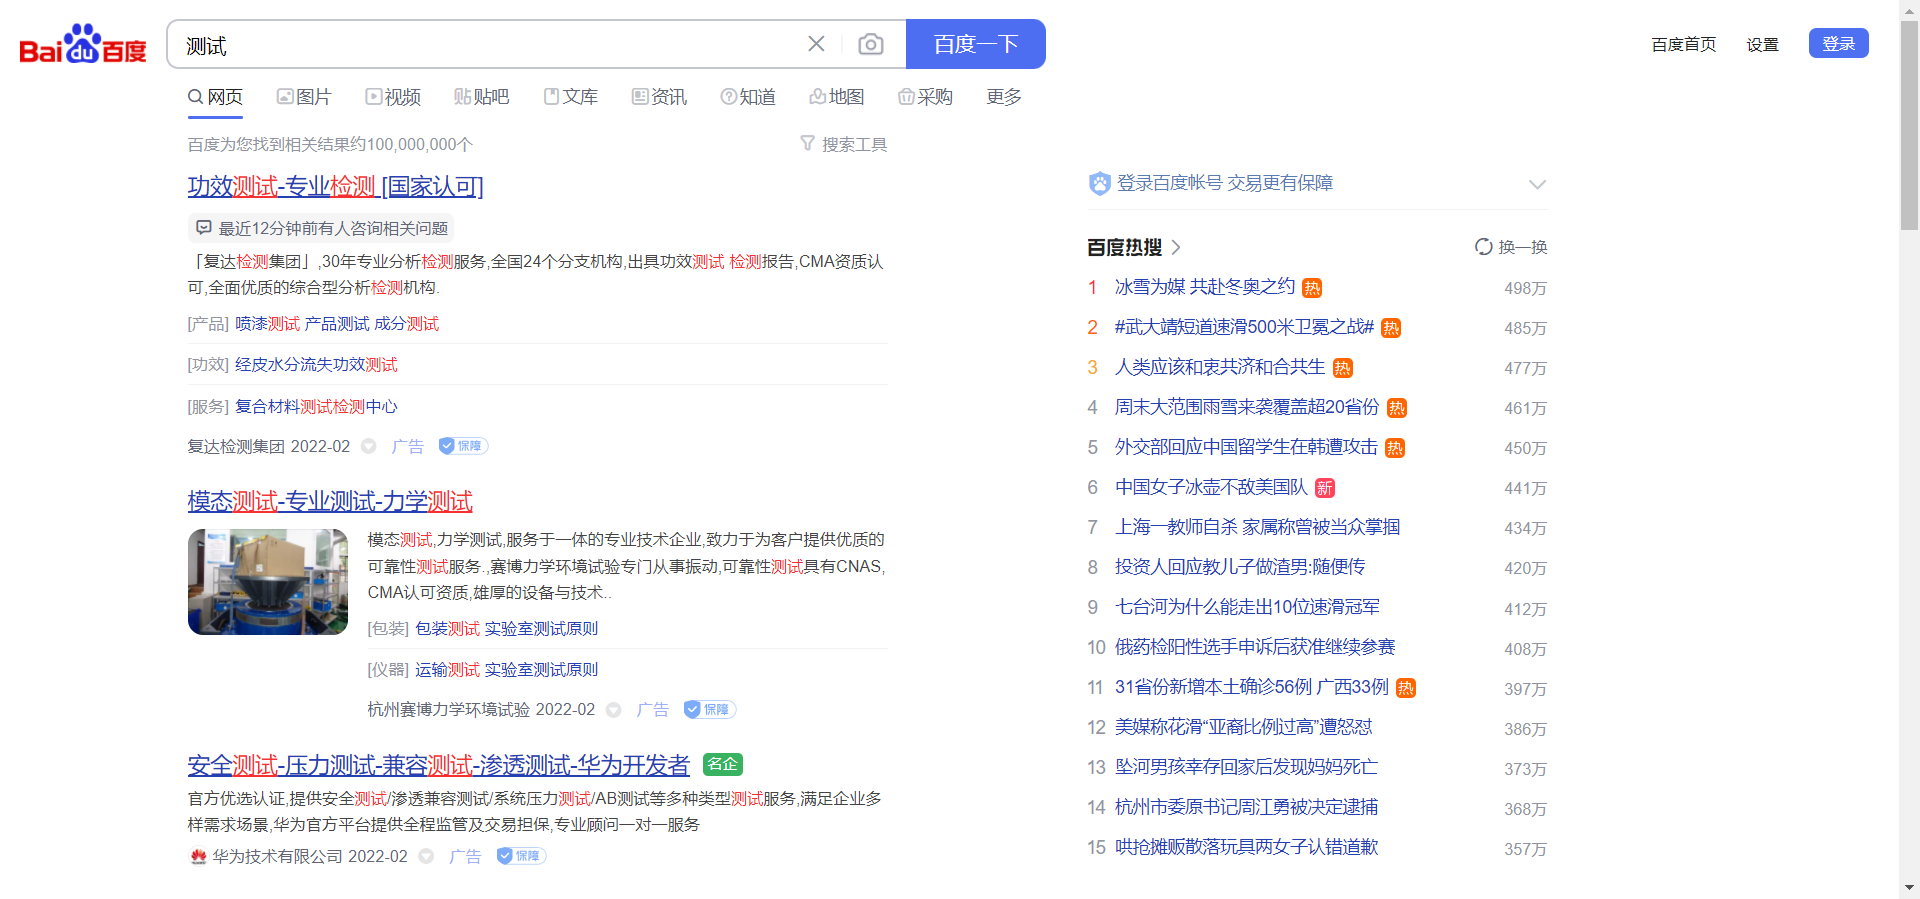
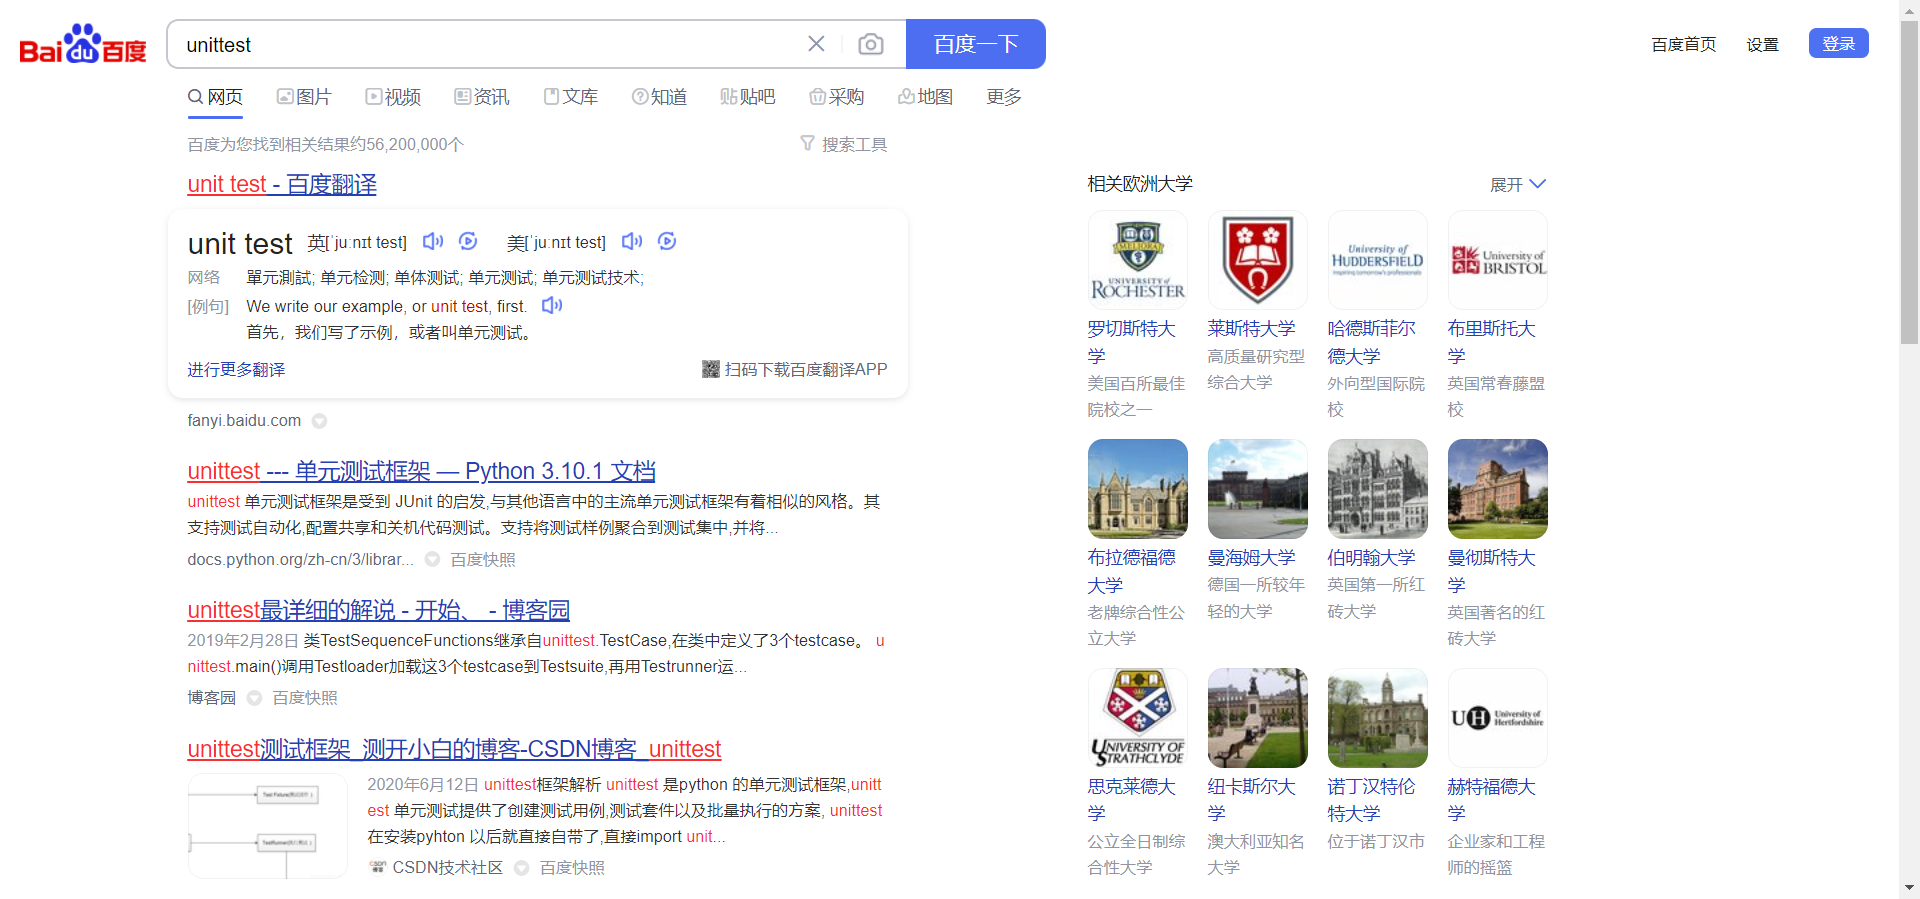
提交代码

diff --git a/lessons/test_pytest.py b/lessons/test_pytest.py
@@ -30,7 +30,7 @@ import pytest
 
 @allure.testcase("https://note.youdao.com/web/#/file/recent/note/WEBf8ee7dd7a2b6752790083f12556381a9/")
 @allure.feature("百度搜索")
-@pytest.mark.parametrize('test_data', ['测试'])
+@pytest.mark.parametrize('test_data', ["allure", "pytest", "unittest"])
 def test_steps_dmeo(test_data):
     driver = webdriver.Chrome()
     with allure.step("打开百度网页"):
@@ -46,8 +46,9 @@ def test_steps_dmeo(test_data):
         driver.save_screenshot(r'D:\pythonProject\hogwarts_test\lessons\PMG\screenshot.png')
         #保存的图片插入allure保存展示
         allure.attach.file(r"D:\pythonProject\hogwarts_test\lessons\PMG\screenshot.png",attachment_type=allure.attachment_type.PNG)
-        #
-        allure.attach('<head></head><boby>首页</boby>''Attach with HTML type',allure.attachment_type.HTML)
+        # 附件 描述
+        allure.attach('<head></head><body>首页</body>','Attach with HTML type', attachment_type=allure.attachment_type.HTML)
+        allure.attach(body="这是一段文本,teardown", name="test文本02", attachment_type=allure.attachment_type.TEXT)
     with allure.step("退出浏览器"):
         driver.quit()
 
